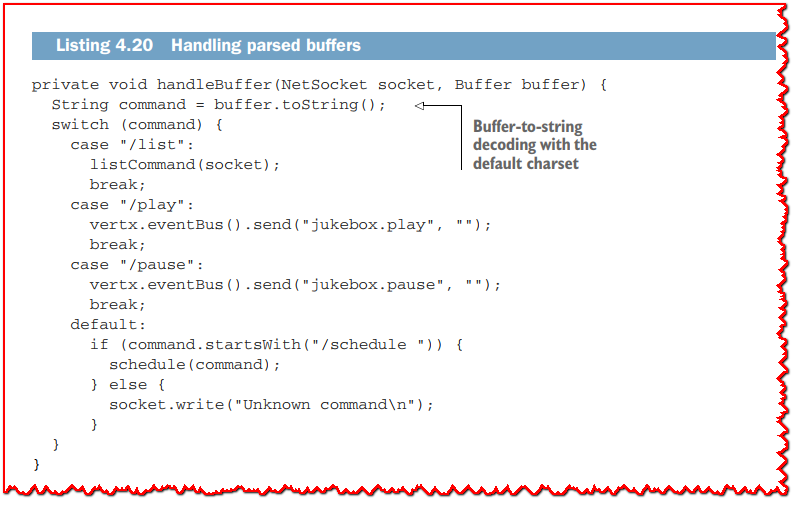
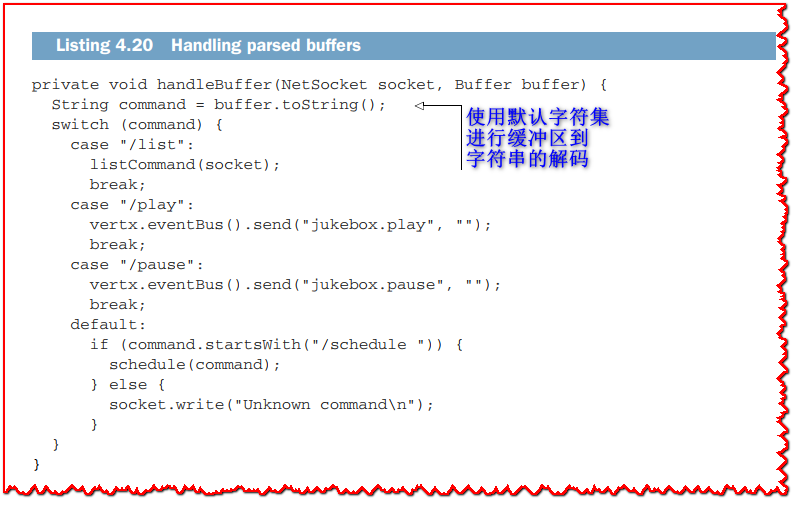
把图形里的文字都先翻译成了中文.

Changed region(s): [[0.5714, 0.2079, 0.782, 0.3564]]

diff --git a/Chapter4-AsynchronousData.md b/Chapter4-AsynchronousData.md
@@ -94,9 +94,9 @@ public class JdkStreams {
 }
 ```
 
-> <1>: Using try-with-resources we ensure that reader.close() is always going to be called, whether the execution completes normally or exceptionally.
+> <1>: 使用try-with-resources可以确保无论正常执行还是异常执行，`reader.close()`都会被调用。
 >
-> <2>: We insert two lines to the console once reading has finished.
+> <2>: 一旦读取完成，我们将插入两行到控制台。
 
 Listing 4.1 shows a classic example of using JDK I/O streams to read a file and then output its content to the console, while taking care of possible errors. We read data to a buffer and then immediately write the buffer content to the standard console before recycling the buffer for the next read.
 
@@ -133,17 +133,17 @@ public class VertxStreams {
 }
 ```
 
-> <1>: Opening a file with Vert.x requires options, such as whether the file is in read, write, append mode, and more.
+> <1>: 使用Vert.x打开文件需要一些选项，比如文件是否处于读、写、追加模式等等。
 >
-> <2>: Opening a file is an asynchronous operation.
+> <2>: 打开文件是一个异步操作。
 >
-> <3>: AsyncFile is the interface for Vert.x asynchronous files.
+> <3>: AsyncFile是Vertx异步文件的接口。
 >
-> <4>: The callback for new buffer data.
+> <4>: 新缓冲区数据的回调。
 >
-> <5>: The callback when an exception arises.
+> <5>: 出现异常时的回调。
 >
-> <6>: The callback when the stream ends.
+> <6>: 流结束时的回调。
 
 The approach is declarative here, as we define handlers for the different types of events when reading the stream. We are being *pushed* data, whereas in listing 4.1 we were *pulling* data from the stream.
 
